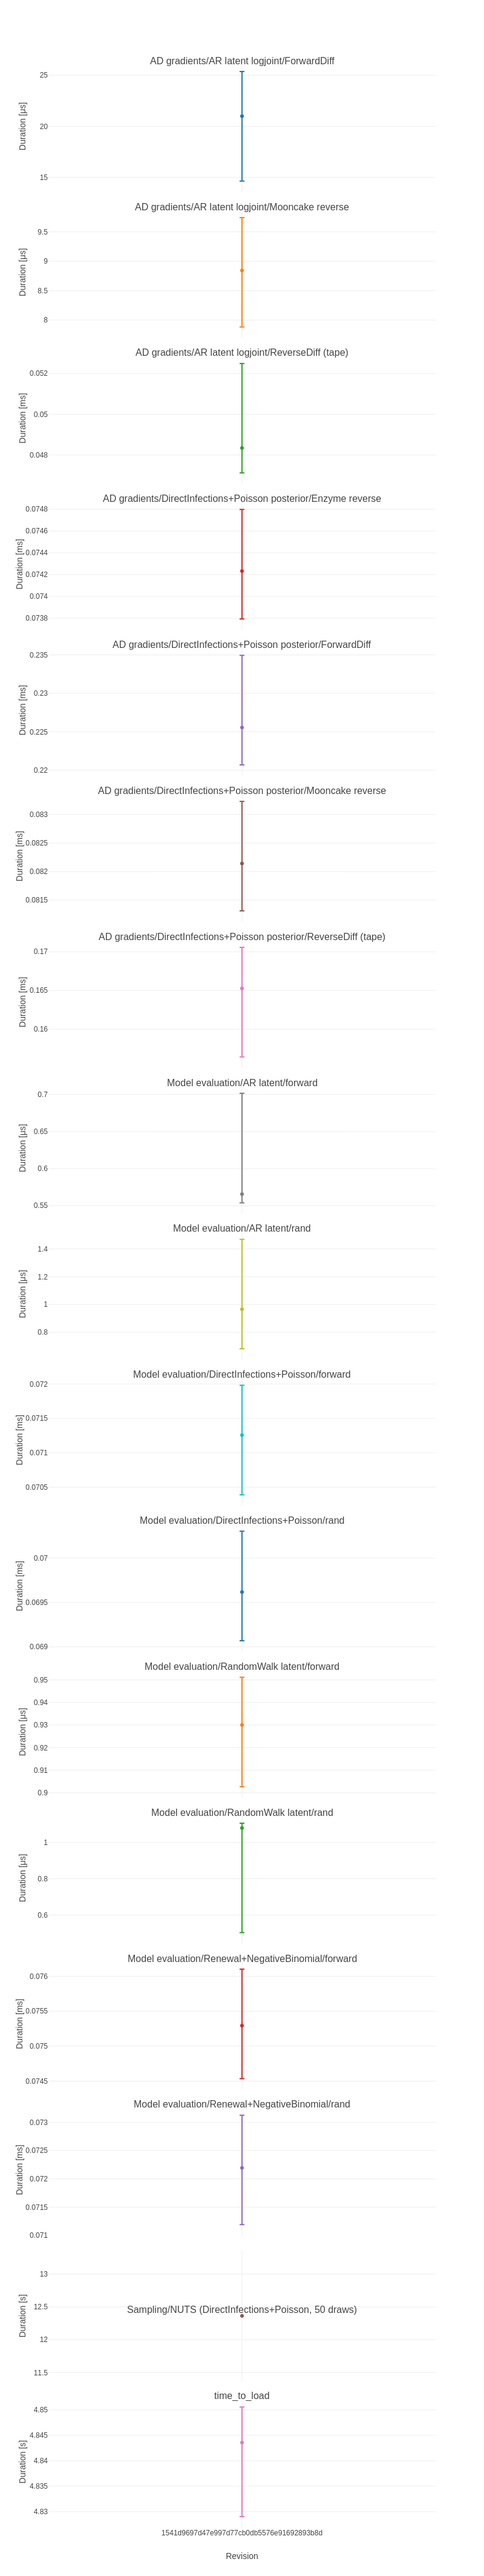
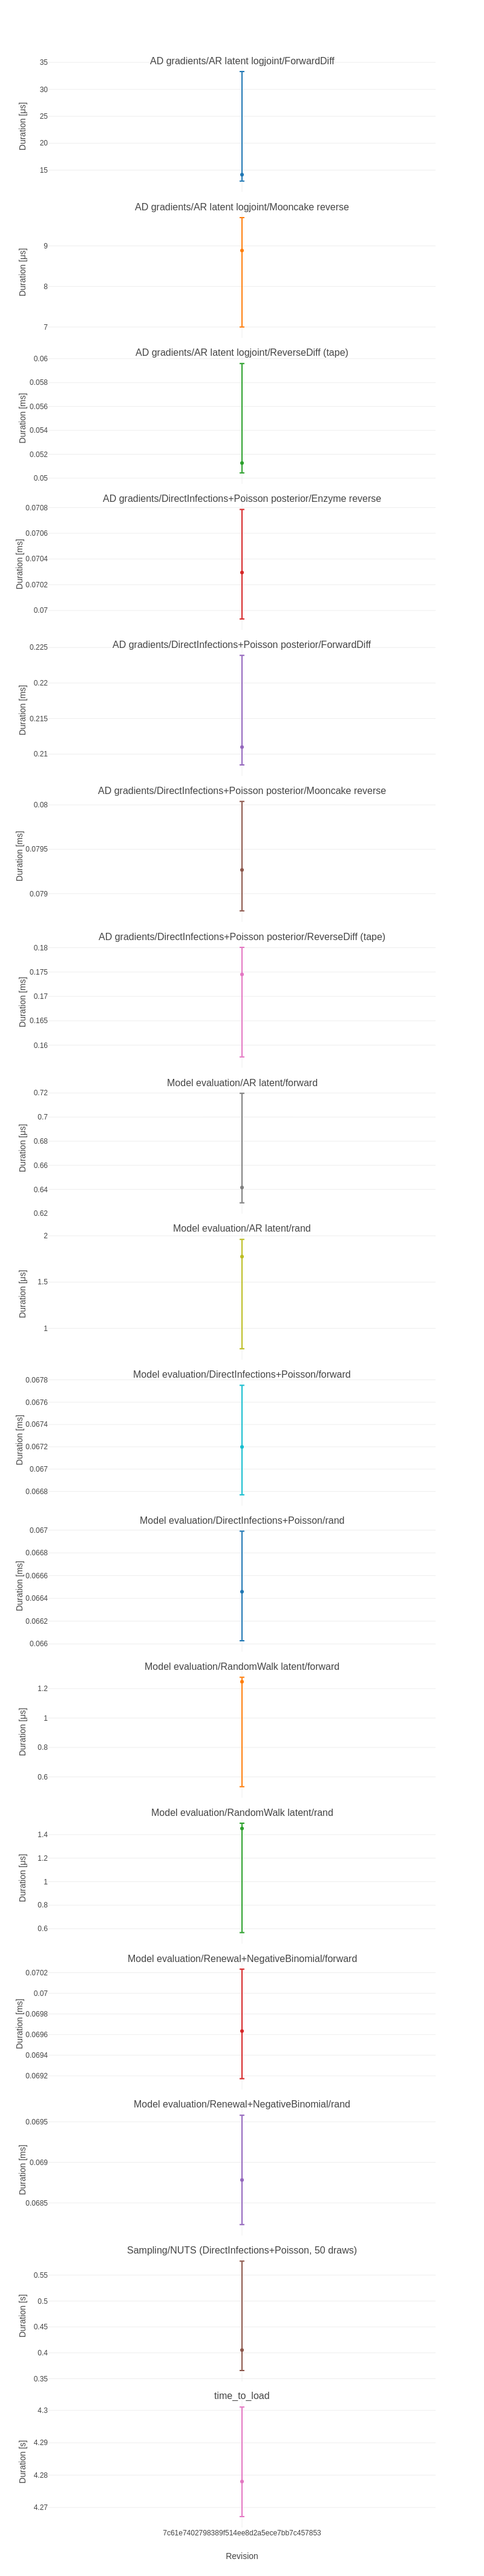
Deploying to benchmarks from @ EpiAware/ComposableTuringIDModels.jl@7c61e7402798389f514ee8d2a5ece7bb7c457853 🚀

diff --git a/history/table.md b/history/table.md
@@ -1,24 +1,24 @@
-|                                                                    | 1541d9697d47e9...  |
-|:-------------------------------------------------------------------|:------------------:|
-| AD gradients/AR latent logjoint/ForwardDiff                        | 21 ± 11 μs         |
-| AD gradients/AR latent logjoint/Mooncake reverse                   | 8.84 ± 1.9 μs      |
-| AD gradients/AR latent logjoint/ReverseDiff (tape)                 | 0.0483 ± 0.0054 ms |
-| AD gradients/DirectInfections+Poisson posterior/Enzyme reverse     | 0.0742 ± 0.001 ms  |
-| AD gradients/DirectInfections+Poisson posterior/ForwardDiff        | 0.226 ± 0.014 ms   |
-| AD gradients/DirectInfections+Poisson posterior/Mooncake reverse   | 0.0821 ± 0.0019 ms |
-| AD gradients/DirectInfections+Poisson posterior/ReverseDiff (tape) | 0.165 ± 0.014 ms   |
-| Model evaluation/AR latent/forward                                 | 0.566 ± 0.15 μs    |
-| Model evaluation/AR latent/rand                                    | 0.966 ± 0.79 μs    |
-| Model evaluation/DirectInfections+Poisson/forward                  | 0.0713 ± 0.0016 ms |
-| Model evaluation/DirectInfections+Poisson/rand                     | 0.0696 ± 0.0012 ms |
-| Model evaluation/RandomWalk latent/forward                         | 0.93 ± 0.049 μs    |
-| Model evaluation/RandomWalk latent/rand                            | 1.08 ± 0.6 μs      |
-| Model evaluation/Renewal+NegativeBinomial/forward                  | 0.0753 ± 0.0016 ms |
-| Model evaluation/Renewal+NegativeBinomial/rand                     | 0.0722 ± 0.0019 ms |
-| Sampling/NUTS (DirectInfections+Poisson, 50 draws)                 | 12.4 s             |
-| time_to_load                                                       | 4.84 ± 0.021 s     |
+|                                                                    | 7c61e740279838...   |
+|:-------------------------------------------------------------------|:-------------------:|
+| AD gradients/AR latent logjoint/ForwardDiff                        | 14.2 ± 20 μs        |
+| AD gradients/AR latent logjoint/Mooncake reverse                   | 8.89 ± 2.7 μs       |
+| AD gradients/AR latent logjoint/ReverseDiff (tape)                 | 0.0513 ± 0.0092 ms  |
+| AD gradients/DirectInfections+Poisson posterior/Enzyme reverse     | 0.0703 ± 0.00085 ms |
+| AD gradients/DirectInfections+Poisson posterior/ForwardDiff        | 0.211 ± 0.015 ms    |
+| AD gradients/DirectInfections+Poisson posterior/Mooncake reverse   | 0.0793 ± 0.0012 ms  |
+| AD gradients/DirectInfections+Poisson posterior/ReverseDiff (tape) | 0.175 ± 0.022 ms    |
+| Model evaluation/AR latent/forward                                 | 0.642 ± 0.091 μs    |
+| Model evaluation/AR latent/rand                                    | 1.78 ± 1.2 μs       |
+| Model evaluation/DirectInfections+Poisson/forward                  | 0.0672 ± 0.00098 ms |
+| Model evaluation/DirectInfections+Poisson/rand                     | 0.0665 ± 0.00096 ms |
+| Model evaluation/RandomWalk latent/forward                         | 1.25 ± 0.74 μs      |
+| Model evaluation/RandomWalk latent/rand                            | 1.45 ± 0.93 μs      |
+| Model evaluation/Renewal+NegativeBinomial/forward                  | 0.0696 ± 0.0011 ms  |
+| Model evaluation/Renewal+NegativeBinomial/rand                     | 0.0688 ± 0.0014 ms  |
+| Sampling/NUTS (DirectInfections+Poisson, 50 draws)                 | 0.405 ± 0.21 s      |
+| time_to_load                                                       | 4.28 ± 0.034 s      |
 
-|                                                                    | 1541d9697d47e9...         |
+|                                                                    | 7c61e740279838...         |
 |:-------------------------------------------------------------------|:-------------------------:|
 | AD gradients/AR latent logjoint/ForwardDiff                        | 0.056 k allocs: 0.0508 MB |
 | AD gradients/AR latent logjoint/Mooncake reverse                   | 0.04 k allocs: 4.98 kB    |
@@ -33,8 +33,8 @@
 | Model evaluation/DirectInfections+Poisson/rand                     | 0.349 k allocs: 15.1 kB   |
 | Model evaluation/RandomWalk latent/forward                         | 16  allocs: 1.83 kB       |
 | Model evaluation/RandomWalk latent/rand                            | 15  allocs: 2.05 kB       |
-| Model evaluation/Renewal+NegativeBinomial/forward                  | 0.575 k allocs: 23.8 kB   |
-| Model evaluation/Renewal+NegativeBinomial/rand                     | 0.572 k allocs: 23 kB     |
-| Sampling/NUTS (DirectInfections+Poisson, 50 draws)                 | 0.0369 G allocs: 4.55 GB  |
-| time_to_load                                                       | 0.15 k allocs: 11.7 kB    |
+| Model evaluation/Renewal+NegativeBinomial/forward                  | 0.48 k allocs: 22.3 kB    |
+| Model evaluation/Renewal+NegativeBinomial/rand                     | 0.477 k allocs: 21.6 kB   |
+| Sampling/NUTS (DirectInfections+Poisson, 50 draws)                 | 1.05 M allocs: 0.132 GB   |
+| time_to_load                                                       | 0.149 k allocs: 11.2 kB   |
 

diff --git a/history/README.md b/history/README.md
@@ -1,6 +1,6 @@
 # ComposableTuringIDModels.jl benchmark history
 
-Revisions: 1541d9697d47e997d77cb0db5576e91692893b8d
+Revisions: 7c61e7402798389f514ee8d2a5ece7bb7c457853
 
 See `table.md` for the ratio summary and the PNG
 files in this folder for per-benchmark timelines.
